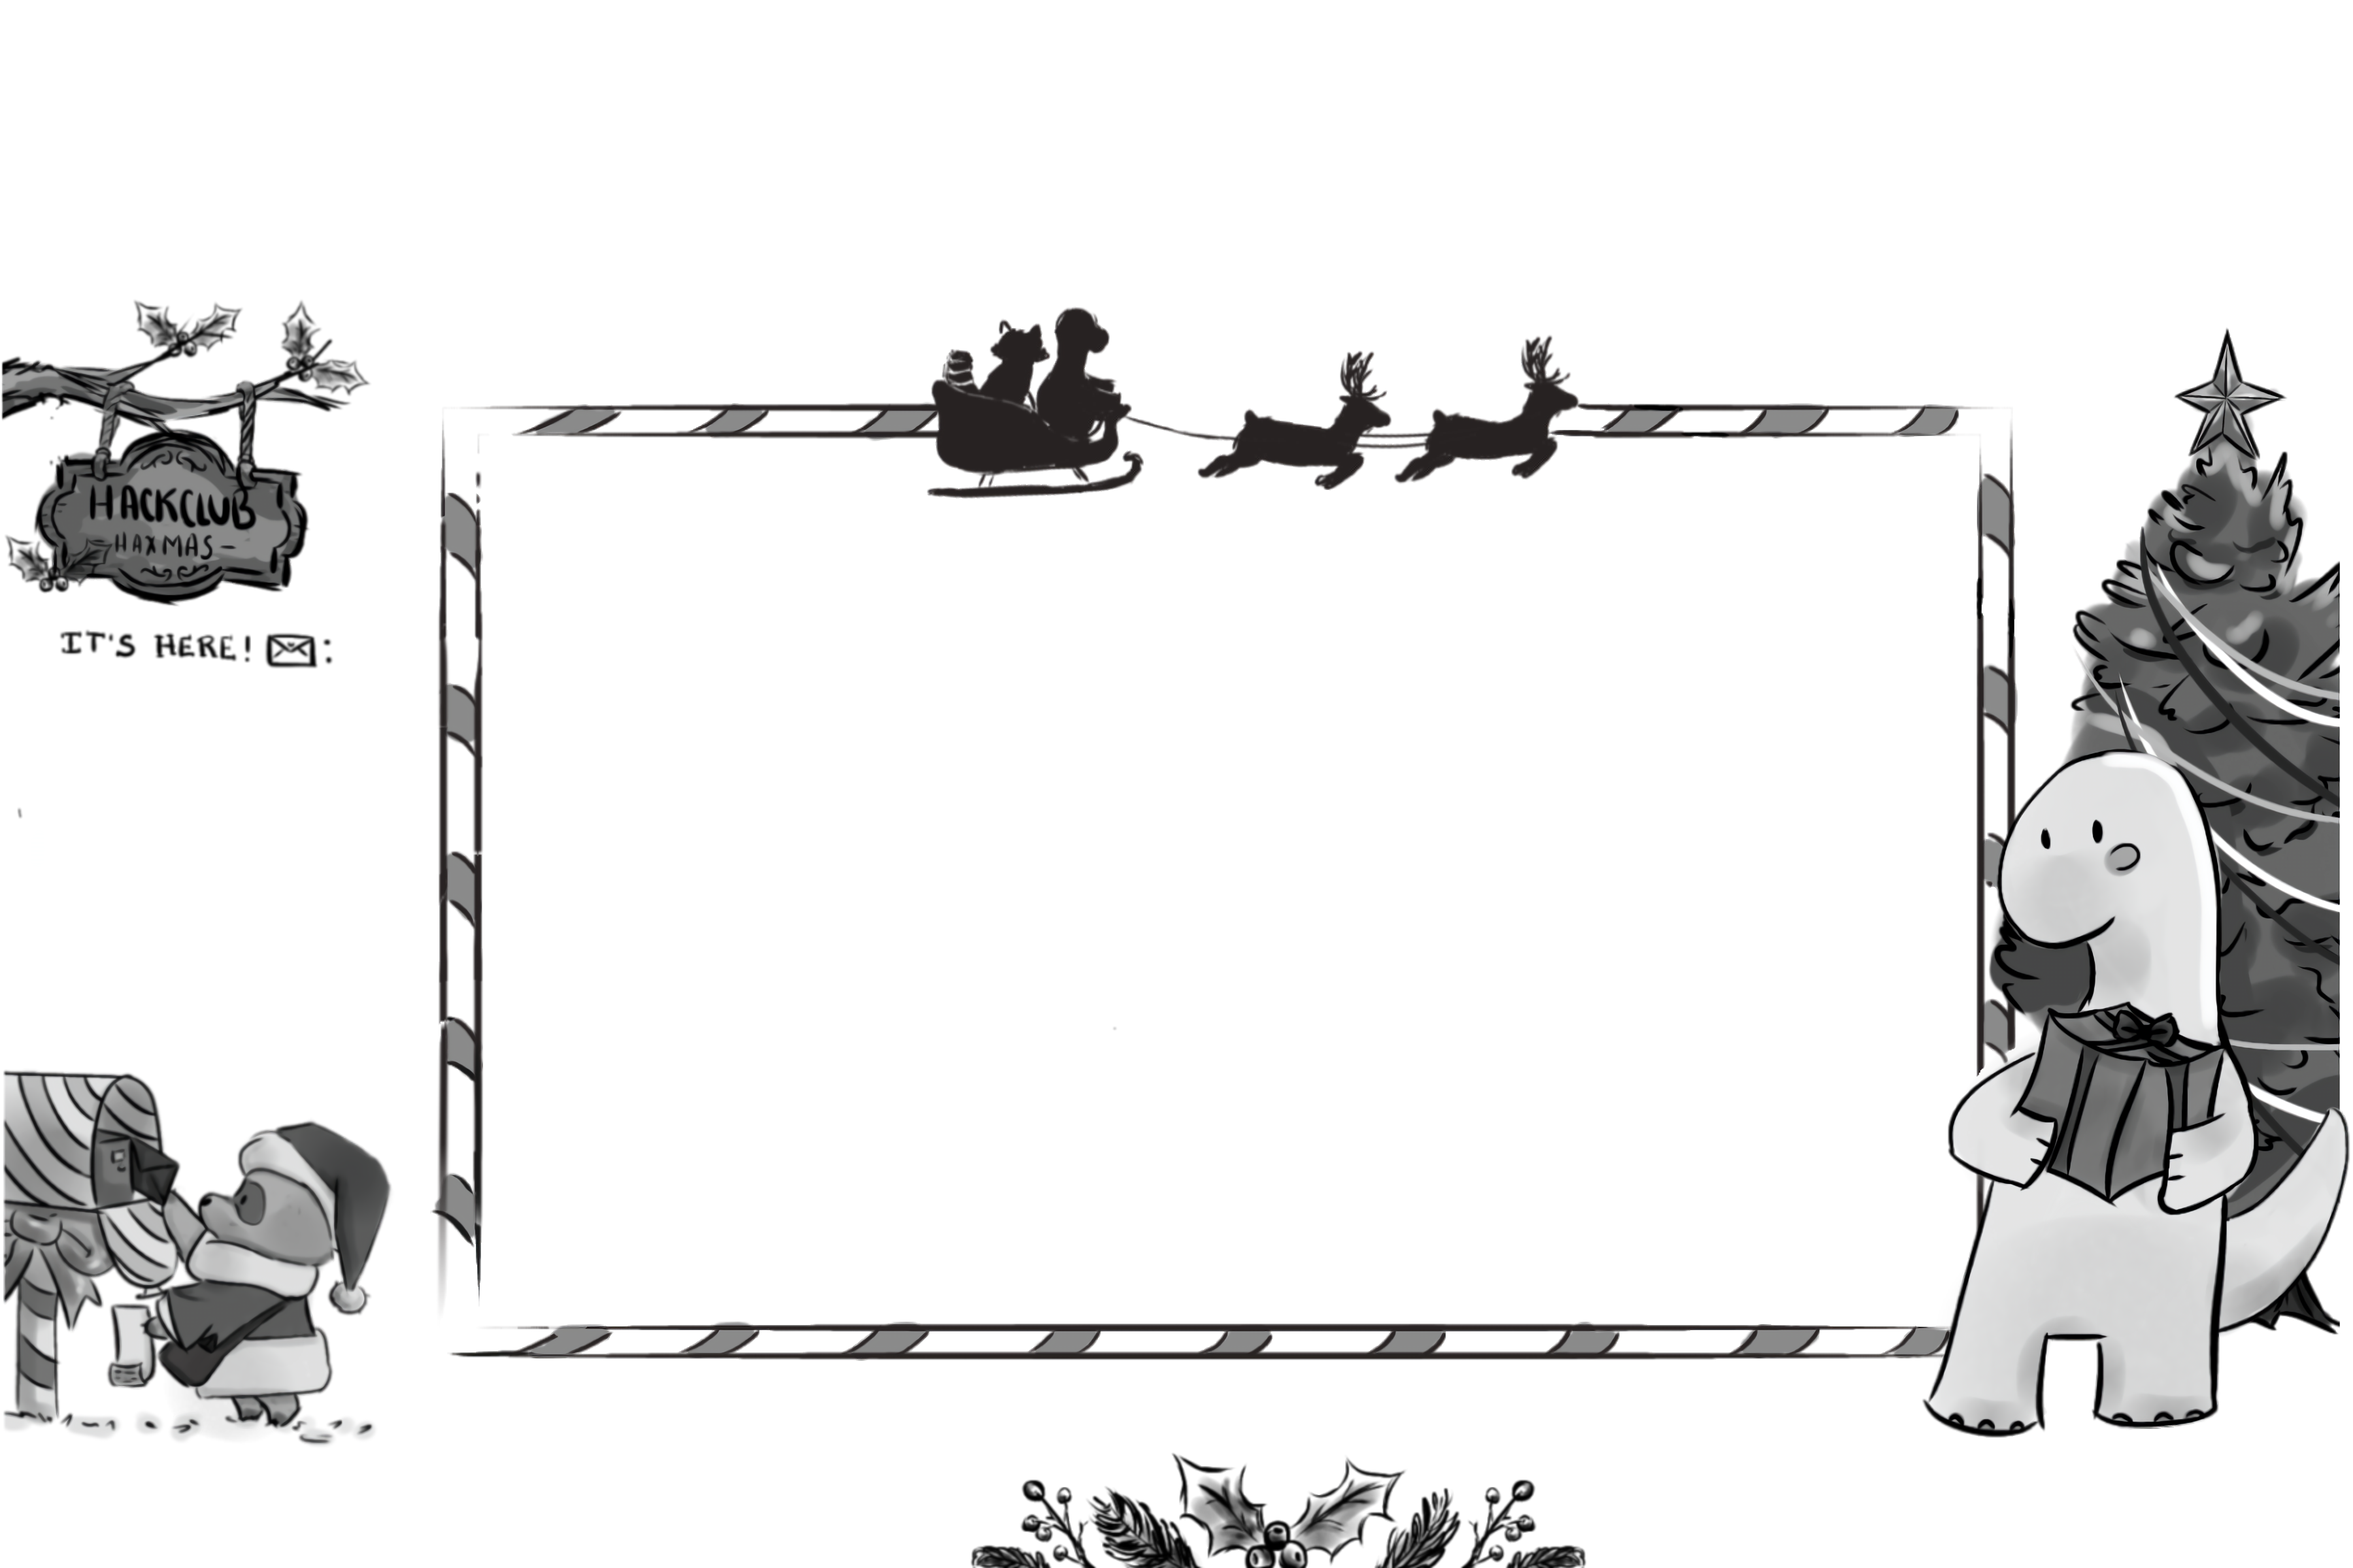
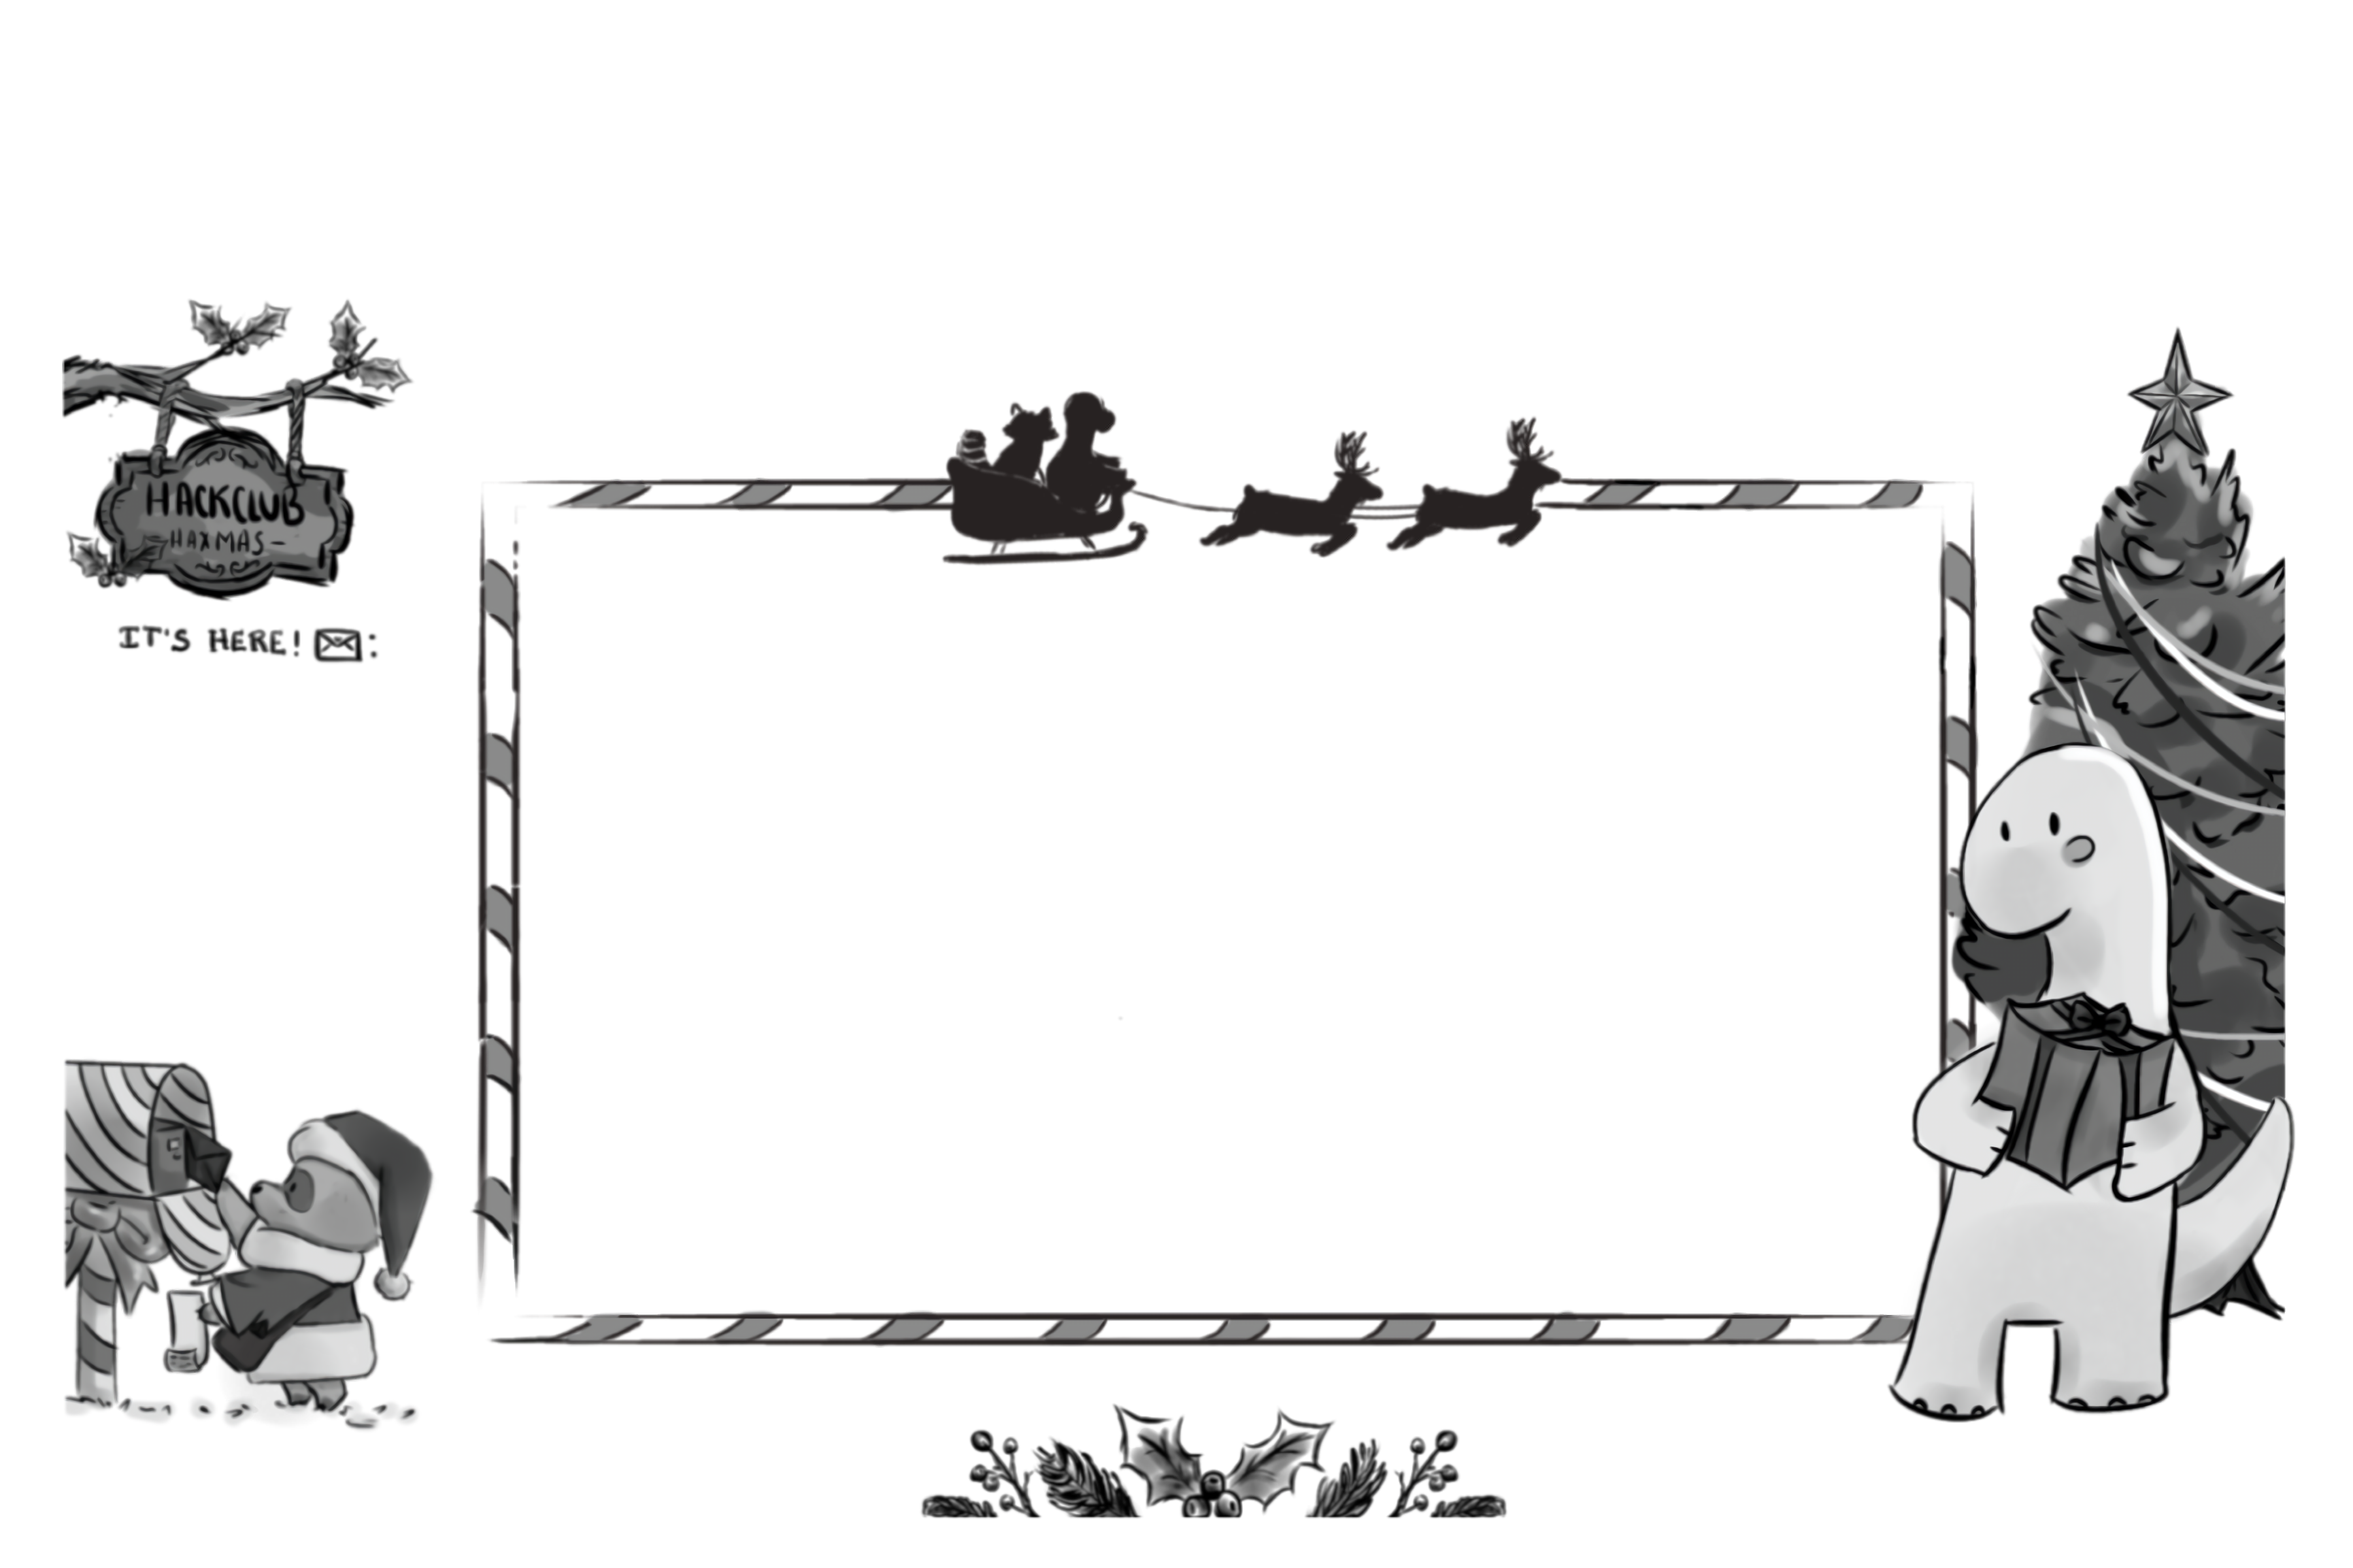
make the haxmas template dmm202 compliant (#197)
* make the haxmas template dmm202 compliant

* remove smudge from background

Changed region(s): [[0.0, 0.1875, 1.0, 1.0], [0.0, 0.1875, 0.1867, 0.4375]]

diff --git a/app/lib/snail_mail/components/templates/haxmas_template.rb b/app/lib/snail_mail/components/templates/haxmas_template.rb
@@ -19,15 +19,13 @@ module SnailMail
             width: 443,
           )
 
-
           render_return_address(10, 278, 260, 70, size: 8, font: "f25")
-
 
           render_destination_address(
             100,
-            200,
+            185,
             260,
-            120,
+            100,
             size: 14,
             valign: :center,
             align: :left
@@ -42,9 +40,9 @@ module SnailMail
           end
 
 
-          render_imb(140, 70, 183)
-          render_qr_code(310, 262, 42)
-          render_letter_id(2, 5, 6)
+          render_imb(102, 80, 183)
+          render_qr_code(220, 260, 40)
+          render_letter_id(10, 19, 8)
           render_postage
         end
       end
